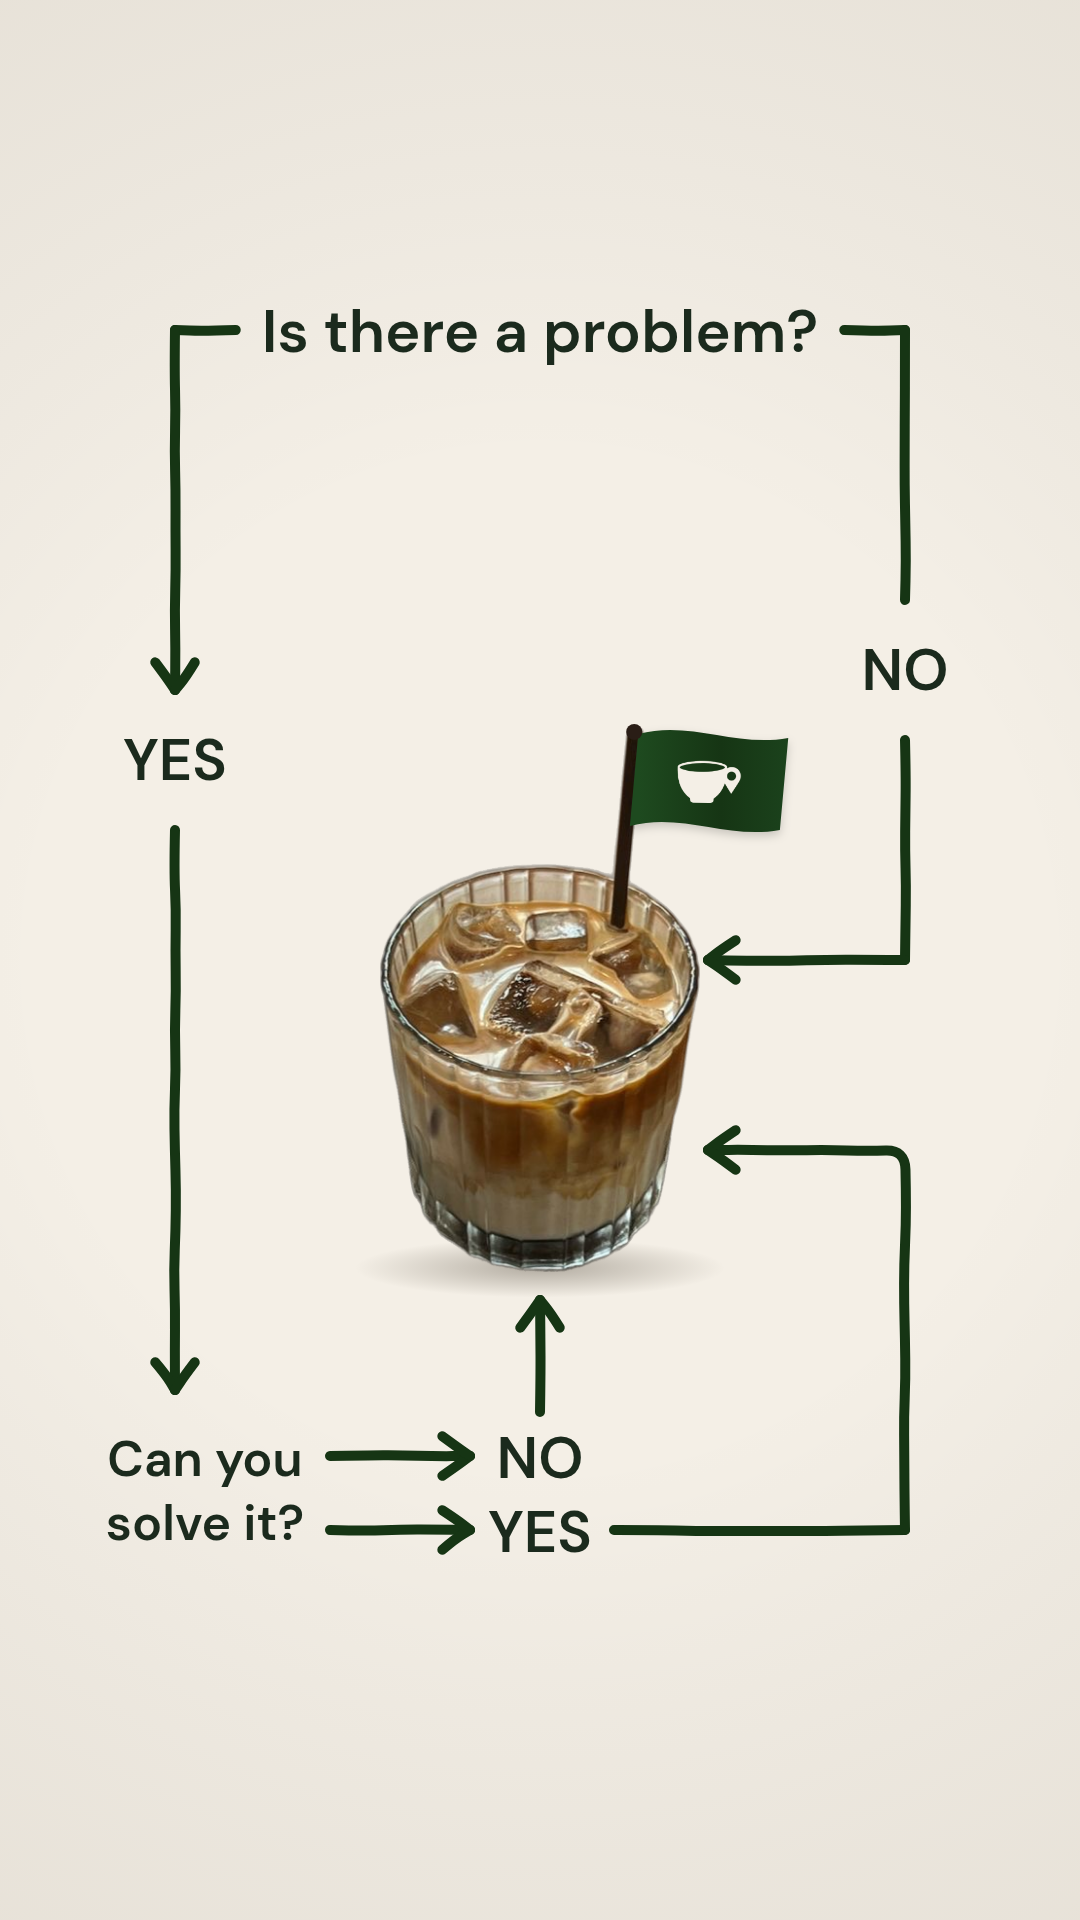
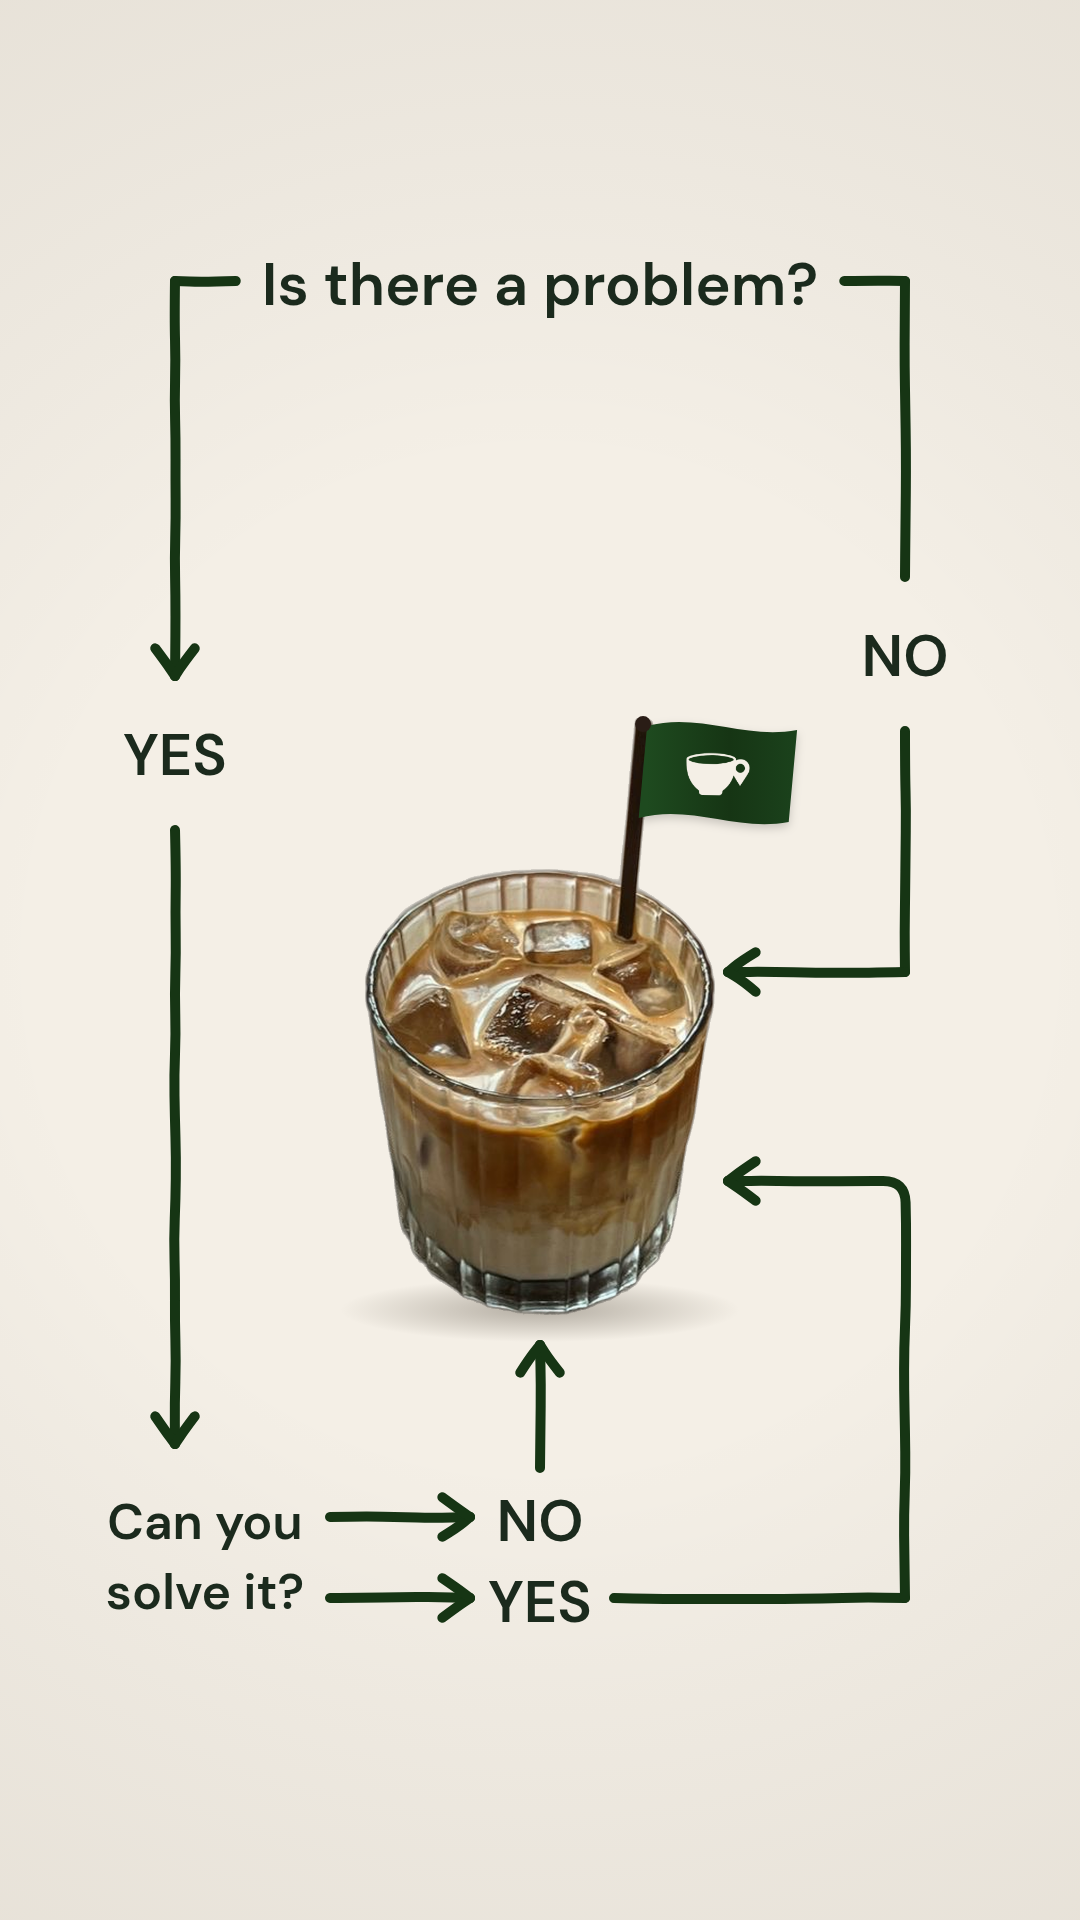
Flowchart story: stretched to the full story safe area, cup a little larger (Arabic and English)
Claude-Session: https://claude.ai/code/session_01UCKVHF8Bj15Neb29ir5cAN

diff --git a/marketing/posts/coffee-flowchart-story/story.html b/marketing/posts/coffee-flowchart-story/story.html
@@ -28,22 +28,22 @@ window.ready = (async () => {
   const arrow = pts => { hand(pts); const [x0, y0] = pts[pts.length - 2], [x1, y1] = pts[pts.length - 1]; head(x1, y1, Math.atan2(y1 - y0, x1 - x0)); };
   const ar = (t, x, y, size = 62, align = 'center', col = INK) => { c.direction = 'rtl'; c.textAlign = align; c.fillStyle = col; c.font = `700 ${size}px "Tajawal"`; c.fillText(t, x, y); };
   c.strokeStyle = G; c.lineWidth = 10; c.lineCap = 'round'; c.lineJoin = 'round';
-  // v6: a tall layout for the 9:16 frame (content ~310–1580, side margins ~150); the bottom لا/إيه column is centred
+  // v7: the tall layout stretched to the full story safe area (content ~255–1640, side margins ~150); the bottom لا/إيه column is centred
   // under the cup so the up arrow lands in the middle of the glass
-  ar('عندك مشكلة؟', 540, 352, 68);
+  ar('عندك مشكلة؟', 540, 305, 68);
   // right: إيه, down to "تقدر تحلها؟"
-  hand([[778, 330], [905, 330]]); arrow([[905, 330], [905, 690]]);
-  ar('إيه', 905, 780, 64);
-  arrow([[905, 830], [905, 1390]]);
-  ar('تقدر', 880, 1478, 58); ar('تحلها؟', 880, 1546, 58);
+  hand([[778, 281], [905, 281]]); arrow([[905, 281], [905, 676]]);
+  ar('إيه', 905, 775, 64);
+  arrow([[905, 830], [905, 1444]]);
+  ar('تقدر', 880, 1541, 58); ar('تحلها؟', 880, 1615, 58);
   // left: لا, straight into the coffee
-  hand([[302, 330], [175, 330]]); hand([[175, 330], [175, 600]]);
-  ar('لا', 175, 690, 64);
-  hand([[175, 740], [175, 960]]); arrow([[175, 960], [372, 960]]);
-  // the coffee, centred
-  const cw = 320, ch = cw * cup.height / cup.width, cx = 540 - cw / 2, cy = 1272 - ch;
-  const sh = c.createRadialGradient(540, 1268, 10, 540, 1268, 185); sh.addColorStop(0, 'rgba(40,30,15,0.3)'); sh.addColorStop(1, 'rgba(40,30,15,0)');
-  c.save(); c.translate(540, 1268); c.scale(1, 0.16); c.translate(-540, -1268); c.fillStyle = sh; c.fillRect(300, 1048, 480, 440); c.restore();
+  hand([[302, 281], [175, 281]]); hand([[175, 281], [175, 577]]);
+  ar('لا', 175, 676, 64);
+  hand([[175, 731], [175, 972]]); arrow([[175, 972], [352, 972]]);
+  // the coffee, centred, a little larger
+  const cw = 350, ch = cw * cup.height / cup.width, cx = 540 - cw / 2, cy = 1315 - ch;
+  const sh = c.createRadialGradient(540, 1310, 10, 540, 1310, 200); sh.addColorStop(0, 'rgba(40,30,15,0.3)'); sh.addColorStop(1, 'rgba(40,30,15,0)');
+  c.save(); c.translate(540, 1310); c.scale(1, 0.16); c.translate(-540, -1310); c.fillStyle = sh; c.fillRect(290, 1070, 500, 480); c.restore();
   c.drawImage(cup, cx, cy, cw, ch);
   // the BrewMaps flag on the straw: a small pennant in brand green with the cream mark, hung from the straw's tip
   // (the straw leans ~5° right as it rises), with a gentle wave in the cloth
@@ -61,10 +61,10 @@ window.ready = (async () => {
     c.fillStyle = '#2a1d16'; c.beginPath(); c.arc(tx, ty + 2, 8, 0, Math.PI * 2); c.fill();                       // the straw's tip over the hoist
   }
   // from "تقدر تحلها؟": two arrows into the centred column لا / إيه
-  arrow([[762, 1456], [605, 1456]]); arrow([[762, 1530], [605, 1530]]);
-  ar('لا', 540, 1478, 64); ar('إيه', 540, 1552, 64);
-  arrow([[540, 1412], [540, 1300]]);                                   // لا → straight up into the middle of the glass
-  hand([[482, 1530], [175, 1530]]); arrow([[175, 1530], [175, 1150], [372, 1150]]);   // إيه → the long way round, still into the coffee
+  arrow([[762, 1517], [605, 1517]]); arrow([[762, 1598], [605, 1598]]);
+  ar('لا', 540, 1541, 64); ar('إيه', 540, 1622, 64);
+  arrow([[540, 1468], [540, 1345]]);                                   // لا → straight up into the middle of the glass
+  hand([[482, 1598], [175, 1598]]); arrow([[175, 1598], [175, 1181], [352, 1181]]);   // إيه → the long way round, still into the coffee
   // v2: no logo at the foot; the line at the top says it
 })();
 window.png = () => document.getElementById('c').toDataURL('image/png');

diff --git a/marketing/posts/coffee-flowchart-story/story-en.html b/marketing/posts/coffee-flowchart-story/story-en.html
@@ -31,20 +31,20 @@ window.ready = (async () => {
   // English version: the Arabic v6 layout mirrored to read left to right (x → 1080 − x), DM Sans
   const en = (t, x, y, size = 60) => { c.direction = 'ltr'; c.textAlign = 'center'; c.fillStyle = INK; c.font = `600 ${size}px "DM Sans"`; c.fillText(t, x, y); };
   c.font = '600 60px "DM Sans"'; const qw = c.measureText('Is there a problem?').width;
-  en('Is there a problem?', 540, 352, 60);
+  en('Is there a problem?', 540, 305, 60);
   // left: YES, down to "Can you solve it?"
-  hand([[540 - qw / 2 - 26, 330], [175, 330]]); arrow([[175, 330], [175, 690]]);
-  en('YES', 175, 780, 58);
-  arrow([[175, 830], [175, 1390]]);
-  en('Can you', 205, 1476, 50); en('solve it?', 205, 1540, 50);
+  hand([[540 - qw / 2 - 26, 281], [175, 281]]); arrow([[175, 281], [175, 676]]);
+  en('YES', 175, 775, 58);
+  arrow([[175, 830], [175, 1444]]);
+  en('Can you', 205, 1539, 50); en('solve it?', 205, 1609, 50);
   // right: NO, straight into the coffee
-  hand([[540 + qw / 2 + 26, 330], [905, 330]]); hand([[905, 330], [905, 600]]);
-  en('NO', 905, 690, 58);
-  hand([[905, 740], [905, 960]]); arrow([[905, 960], [708, 960]]);
-  // the coffee, centred
-  const cw = 320, ch = cw * cup.height / cup.width, cx = 540 - cw / 2, cy = 1272 - ch;
-  const sh = c.createRadialGradient(540, 1268, 10, 540, 1268, 185); sh.addColorStop(0, 'rgba(40,30,15,0.3)'); sh.addColorStop(1, 'rgba(40,30,15,0)');
-  c.save(); c.translate(540, 1268); c.scale(1, 0.16); c.translate(-540, -1268); c.fillStyle = sh; c.fillRect(300, 1048, 480, 440); c.restore();
+  hand([[540 + qw / 2 + 26, 281], [905, 281]]); hand([[905, 281], [905, 577]]);
+  en('NO', 905, 676, 58);
+  hand([[905, 731], [905, 972]]); arrow([[905, 972], [728, 972]]);
+  // the coffee, centred, a little larger
+  const cw = 350, ch = cw * cup.height / cup.width, cx = 540 - cw / 2, cy = 1315 - ch;
+  const sh = c.createRadialGradient(540, 1310, 10, 540, 1310, 200); sh.addColorStop(0, 'rgba(40,30,15,0.3)'); sh.addColorStop(1, 'rgba(40,30,15,0)');
+  c.save(); c.translate(540, 1310); c.scale(1, 0.16); c.translate(-540, -1310); c.fillStyle = sh; c.fillRect(290, 1070, 500, 480); c.restore();
   c.drawImage(cup, cx, cy, cw, ch);
   // the BrewMaps flag on the straw: a small pennant in brand green with the cream mark, hung from the straw's tip
   // (the straw leans ~5° right as it rises), with a gentle wave in the cloth
@@ -62,10 +62,10 @@ window.ready = (async () => {
     c.fillStyle = '#2a1d16'; c.beginPath(); c.arc(tx, ty + 2, 8, 0, Math.PI * 2); c.fill();                       // the straw's tip over the hoist
   }
   // from "Can you solve it?": two arrows into the centred column NO / YES
-  arrow([[330, 1456], [470, 1456]]); arrow([[330, 1530], [470, 1530]]);
-  en('NO', 540, 1478, 58); en('YES', 540, 1552, 58);
-  arrow([[540, 1412], [540, 1300]]);                                   // NO → straight up into the middle of the glass
-  hand([[614, 1530], [905, 1530]]); arrow([[905, 1530], [905, 1150], [708, 1150]]);   // YES → the long way round, still into the coffee
+  arrow([[330, 1517], [470, 1517]]); arrow([[330, 1598], [470, 1598]]);
+  en('NO', 540, 1541, 58); en('YES', 540, 1622, 58);
+  arrow([[540, 1468], [540, 1345]]);                                   // NO → straight up into the middle of the glass
+  hand([[614, 1598], [905, 1598]]); arrow([[905, 1598], [905, 1181], [728, 1181]]);   // YES → the long way round, still into the coffee
   // v2: no logo at the foot; the line at the top says it
 })();
 window.png = () => document.getElementById('c').toDataURL('image/png');
